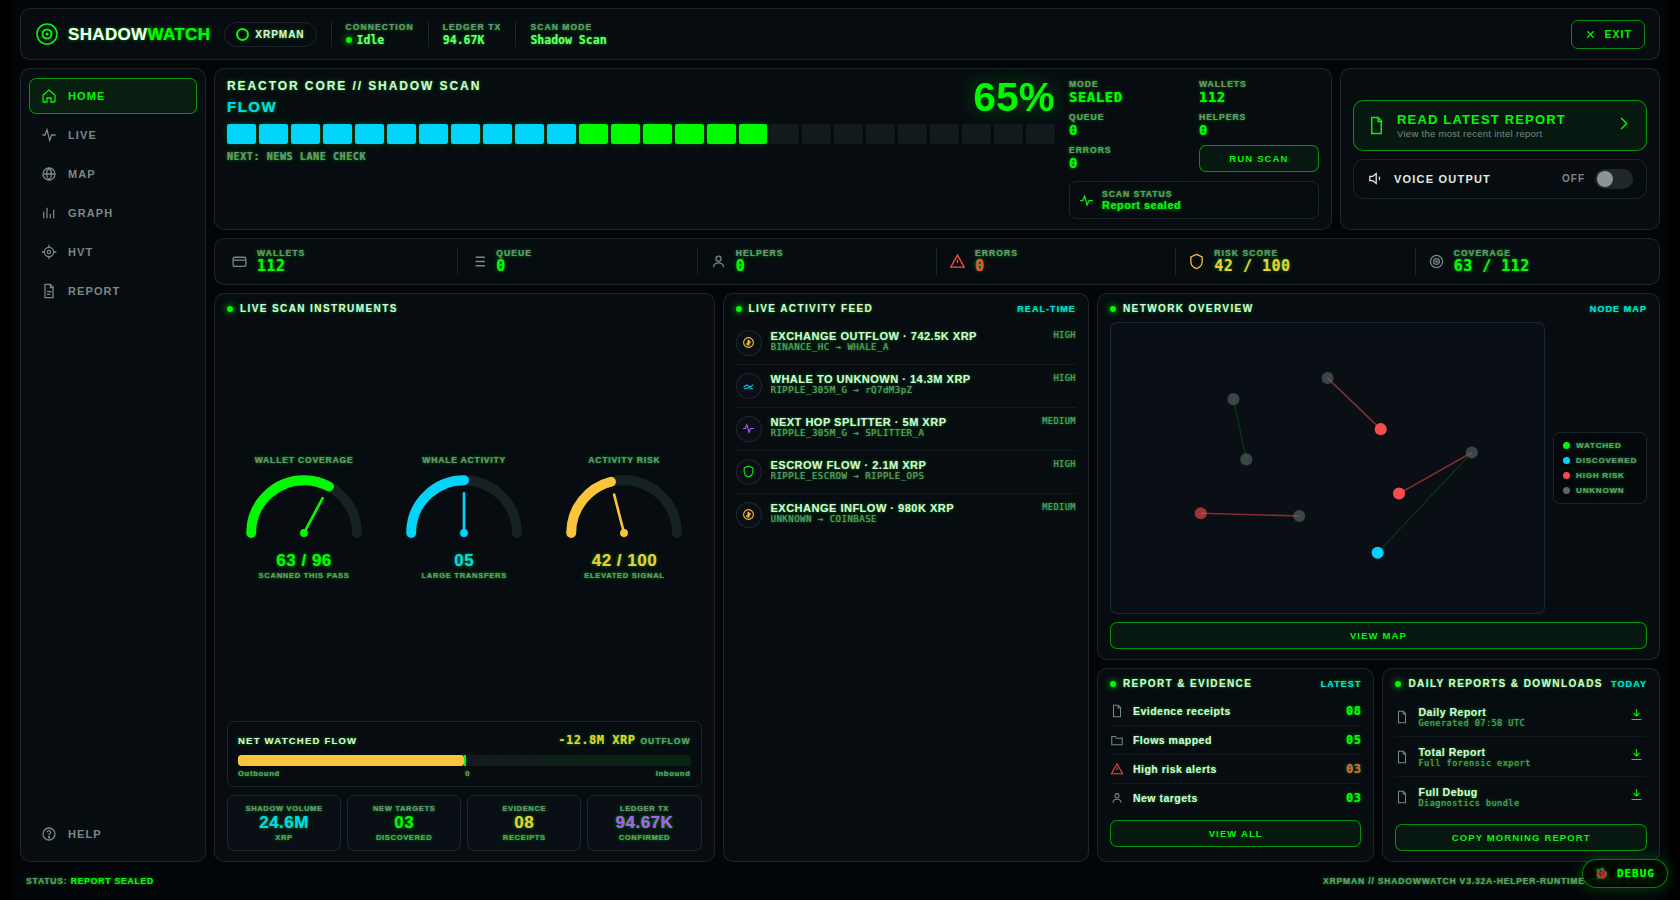
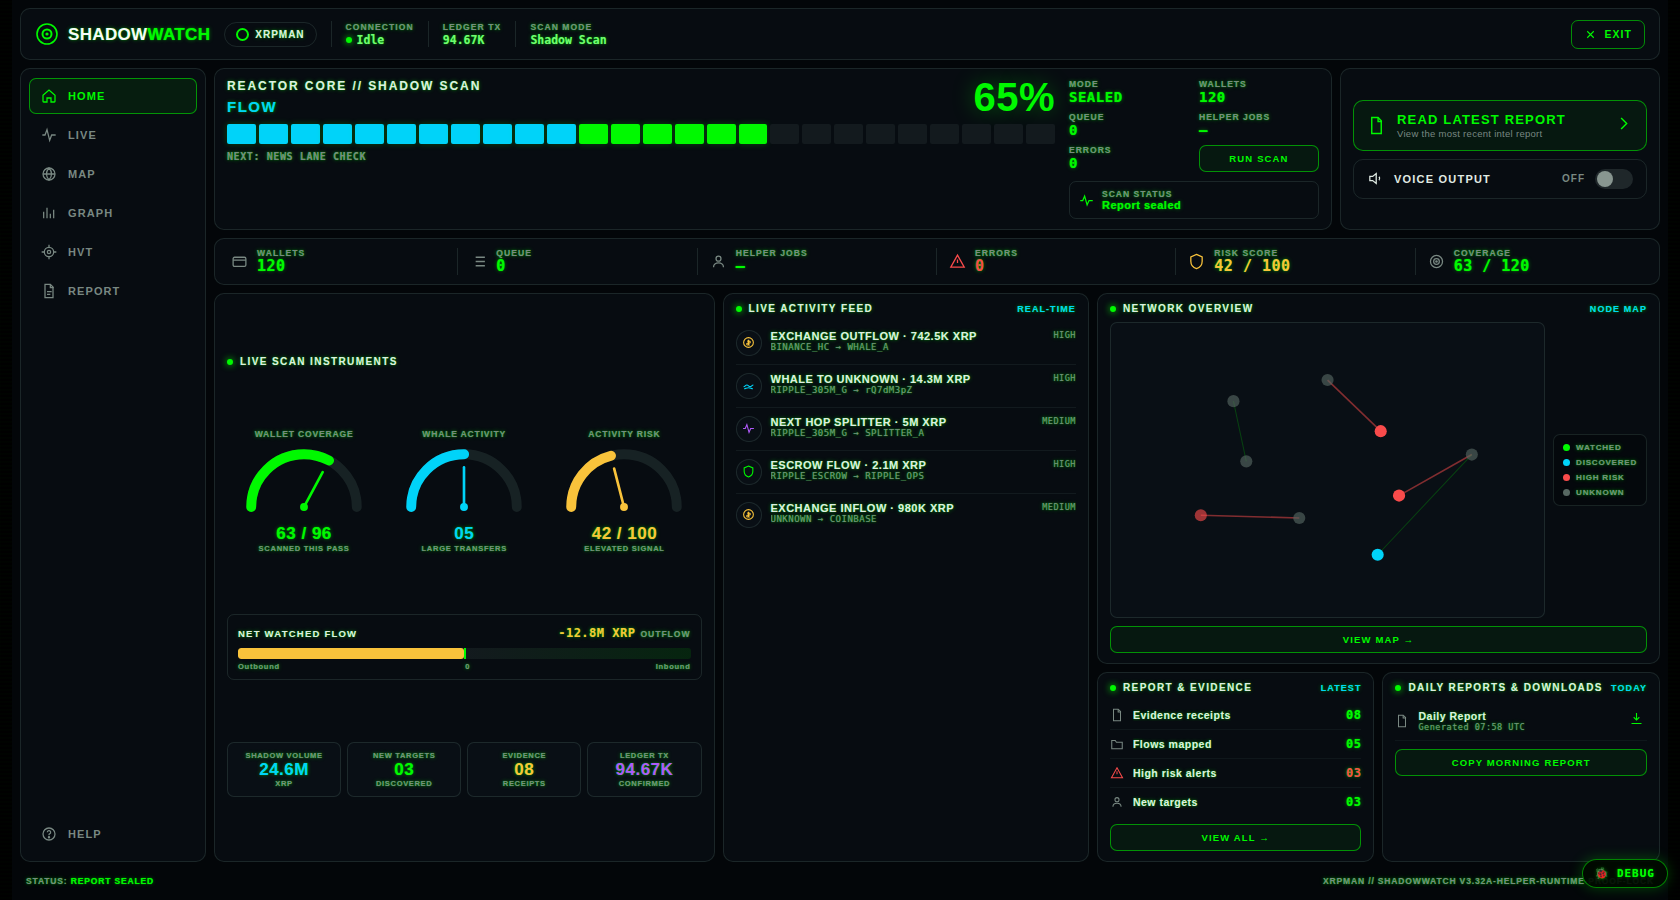
Cockpit visual fidelity: fill the instruments panel, real feed timestamps
Comparing the live PC view against the approved desktop reference:

- LIVE SCAN INSTRUMENTS left a large dead gap with the gauges floating in the
  middle of the column. The three blocks (gauges, net flow, tiles) are now
  distributed evenly and the gauges scale up on taller screens (172px >=820px,
  190px >=960px), so the panel is filled the way the reference shows.
- The feed now shows a real relative timestamp ("10s ago", "25m ago") on each
  row like the reference, computed from the transaction's own date. It falls
  back to the confidence grade when a row carries no usable date rather than
  inventing a time; out-of-range and unparseable dates return empty.
- VIEW MAP and VIEW ALL carry the reference's trailing arrow.

Gates: hardening 17/17, fit gate all pass (0 desktop scroll at five widths),
smoke === main baseline (63/63), 14 inline blocks parse.

Claude-Session: https://claude.ai/code/session_01DfGA7GC8AQNRGTLtcVim5X

diff --git a/brief-console.html b/brief-console.html
@@ -150,12 +150,14 @@ body.sw-dash-v1{overflow:hidden !important;height:100% !important;max-height:100
 .sw-dash-v1 .sw-scell.sw-warn svg{stroke:var(--sw-red);} .sw-dash-v1 .sw-scell.sw-warn b{color:var(--sw-red);}
 .sw-dash-v1 .sw-scell.sw-gold svg{stroke:var(--sw-gold);} .sw-dash-v1 .sw-scell.sw-gold b{color:var(--sw-gold);}
 /* ════════ instruments ════════ */
-/* instruments fill the column: the gauge block absorbs the spare height so the
-   meter + tiles stay anchored at the bottom (no scattered dead space) */
-.sw-dash-v1 #swInstruments{justify-content:flex-start;}
+/* Instruments fill their column evenly instead of leaving one large dead gap
+   with the gauges floating in the middle: the three blocks (gauges, net flow,
+   tiles) are distributed, and the gauges scale up to use the available height. */
+.sw-dash-v1 #swInstruments{justify-content:space-evenly;}
 .sw-dash-v1 .sw-gaugerow{display:grid;grid-template-columns:repeat(3,minmax(0,1fr));gap:6px;
-  flex:1 1 auto;align-content:center;min-height:0;}
-@media (min-height:860px){ .sw-dash-v1 .sw-gauge svg{max-width:154px;} }
+  flex:0 0 auto;align-content:center;}
+@media (min-height:820px){ .sw-dash-v1 .sw-gauge svg{max-width:172px;} }
+@media (min-height:960px){ .sw-dash-v1 .sw-gauge svg{max-width:190px;} }
 .sw-dash-v1 .sw-gauge{text-align:center;min-width:0;}
 .sw-dash-v1 .sw-gauge-cap{font:700 8.5px 'Rajdhani',sans-serif;letter-spacing:.1em;text-transform:uppercase;color:var(--sw-text-muted);margin-bottom:2px;}
 .sw-dash-v1 .sw-gauge svg{width:100%;max-width:132px;height:auto;overflow:visible;}
@@ -21792,7 +21794,7 @@ function _swBuildCockpit() {
     '<span class="sw-leg"><i style="background:#00D9FF"></i>Discovered</span>' +
     '<span class="sw-leg"><i style="background:#FF4D4D"></i>High Risk</span>' +
     '<span class="sw-leg"><i style="background:#5A6B65"></i>Unknown</span></div></div>');
-  var viewMap = _swEl('button', { type:'button', 'class':'sw-cardbtn' }, 'VIEW MAP');
+  var viewMap = _swEl('button', { type:'button', 'class':'sw-cardbtn' }, 'VIEW MAP  \u2192');
   viewMap.addEventListener('click', function () { swNav('map'); });
   network.appendChild(viewMap);
   col3.appendChild(network);
@@ -21801,7 +21803,7 @@ function _swBuildCockpit() {
   var repevid = _swEl('section', { 'class':'sw-panel', id:'swRepEvid' },
     '<div class="sw-panel-title"><span class="sw-t"><span class="sw-dot"></span>REPORT &amp; EVIDENCE</span>' +
     '<span class="sw-tag">LATEST</span></div><div id="swRepBody"></div>');
-  var viewAll = _swEl('button', { type:'button', 'class':'sw-cardbtn' }, 'VIEW ALL');
+  var viewAll = _swEl('button', { type:'button', 'class':'sw-cardbtn' }, 'VIEW ALL  \u2192');
   viewAll.addEventListener('click', function () { _swClickCmd('read-report'); });
   repevid.appendChild(viewAll);
   col3b.appendChild(repevid);
@@ -22012,6 +22014,21 @@ function _swRenderInstruments(p, SP, scanning) {
     t.appendChild(tile('Ledger TX', ledgerTx === null ? 'WAITING' : fmt(ledgerTx, 0), 'Confirmed', 'var(--sw-purple)'));
   }
 }
+// Real elapsed time from the tx date. Returns '' when there is no usable date
+// so the caller can fall back rather than invent a time.
+function _swAgo(iso) {
+  try {
+    if (!iso) return '';
+    var t = Date.parse(iso);
+    if (!isFinite(t)) return '';
+    var s = Math.floor((Date.now() - t) / 1000);
+    if (s < 0) return '';
+    if (s < 60)    return s + 's ago';
+    if (s < 3600)  return Math.floor(s / 60) + 'm ago';
+    if (s < 86400) return Math.floor(s / 3600) + 'h ago';
+    return Math.floor(s / 86400) + 'd ago';
+  } catch (_) { return ''; }
+}
 function _swFeedIcon(cls) {
   if (/EXCHANGE/.test(cls)) return ['coin', 'var(--sw-gold)'];
   if (/WHALE/.test(cls))    return ['whale', 'var(--sw-cyan)'];
@@ -22037,7 +22054,10 @@ function _swRenderFeed(p) {
     var t2 = _swEl('div', { 'class':'sw-feed-detail' });
     t2.textContent = (tx.sender_label || _swShort(tx.from) || 'UNKNOWN') + ' → ' + (tx.receiver_label || _swShort(tx.to) || 'UNKNOWN');
     body.appendChild(t1); body.appendChild(t2);
-    var time = _swEl('div', { 'class':'sw-feed-time' }); time.textContent = String(tx.confidence || '');
+    var time = _swEl('div', { 'class':'sw-feed-time' });
+    // Prefer a real relative timestamp (the reference shows "10s ago"); fall
+    // back to the confidence grade when the tx carries no usable date.
+    time.textContent = _swAgo(tx.date) || String(tx.confidence || '');
     row.appendChild(ico); row.appendChild(body); row.appendChild(time);
     el.appendChild(row);
   });
